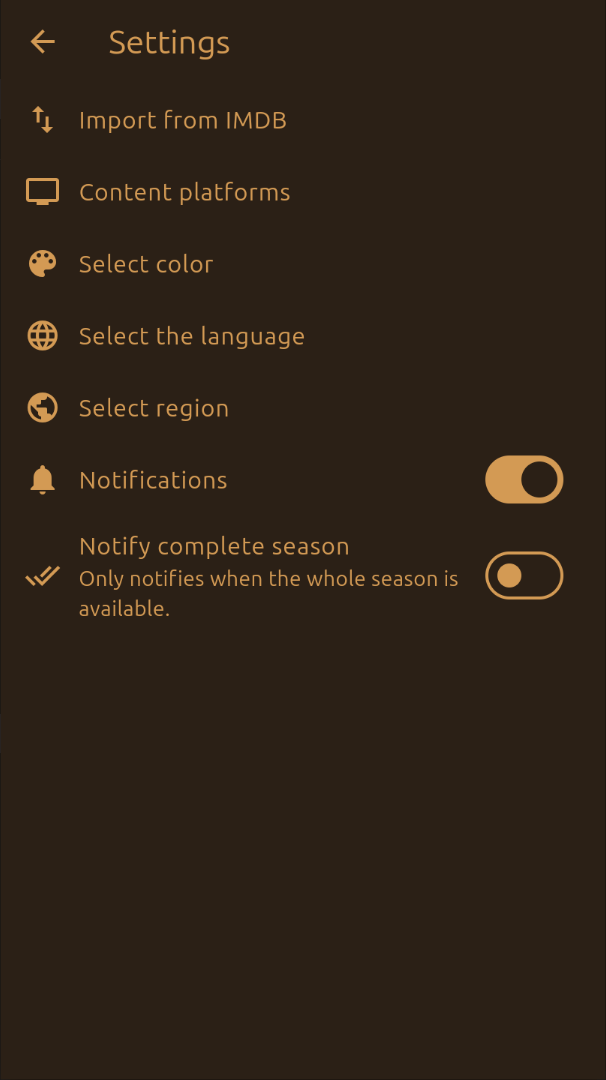
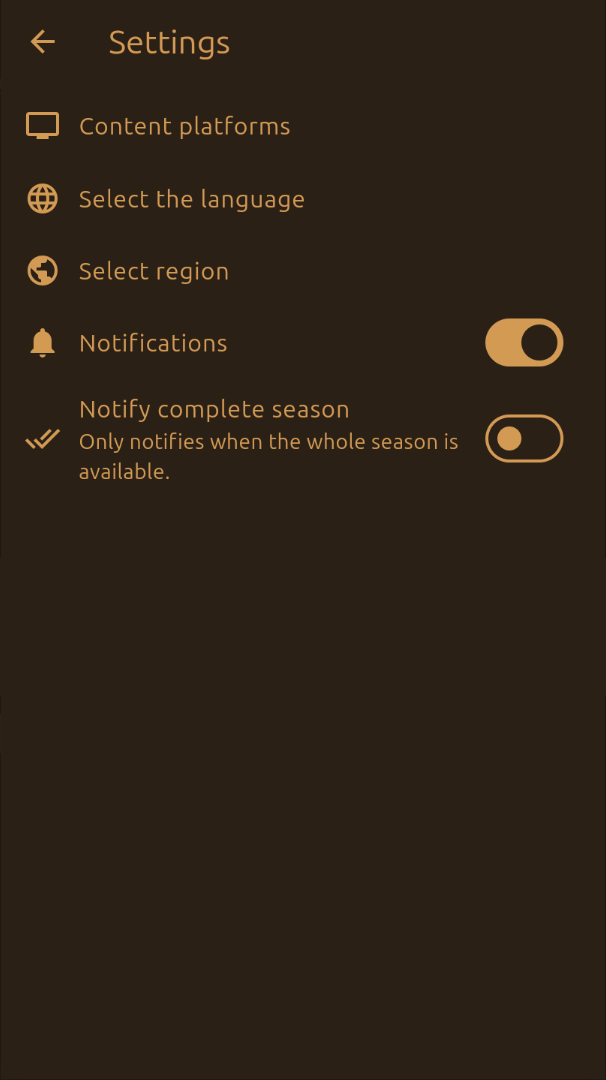
Merge pull request #493 from xcarol/481-prepare-for-production
481 prepare for production

Pull request: 481 prepare for production

diff --git a/lib/screens/settings.dart b/lib/screens/settings.dart
@@ -6,13 +6,11 @@ import 'package:moviescout/screens/providers.dart';
 import 'package:moviescout/services/language_service.dart';
 import 'package:moviescout/services/notification_service.dart';
 import 'package:moviescout/services/region_service.dart';
-import 'package:moviescout/services/theme_service.dart';
 import 'package:moviescout/services/tmdb_genre_service.dart';
 import 'package:moviescout/services/tmdb_rateslist_service.dart';
 import 'package:moviescout/services/tmdb_user_service.dart';
 import 'package:moviescout/services/tmdb_watchlist_service.dart';
 import 'package:moviescout/utils/deep_link_utils.dart';
-import 'package:moviescout/widgets/color_scheme_form.dart';
 import 'package:moviescout/widgets/language_form.dart';
 import 'package:moviescout/widgets/notification_permission_dialog.dart';
 import 'package:moviescout/widgets/region_form.dart';
@@ -34,7 +32,6 @@ class SettingsScreen extends StatelessWidget {
           if (isUserLoggedIn && defaultTargetPlatform == TargetPlatform.linux)
             _importImdbTile(context),
           if (isUserLoggedIn) _providersTile(context),
-          _colorSchemeTile(context),
           _languageTile(context),
           _regionTile(context),
           _notificationsTile(context),
@@ -99,30 +96,6 @@ class SettingsScreen extends StatelessWidget {
         Navigator.push(
           context,
           MaterialPageRoute(builder: (context) => const ProvidersScreen()),
-        );
-      },
-    );
-  }
-
-  Widget _colorSchemeTile(BuildContext context) {
-    final themeProvider = Provider.of<ThemeService>(context);
-
-    return ListTile(
-      leading: const Icon(Icons.color_lens),
-      title: Text(
-        AppLocalizations.of(context)!.schemeSelectTitle,
-      ),
-      onTap: () {
-        showDialog(
-          context: context,
-          builder: (context) {
-            return ColorSchemeForm(
-              currentScheme: themeProvider.currentScheme,
-              onSubmit: (ThemeSchemes schemeName) {
-                themeProvider.setColorScheme(schemeName);
-              },
-            );
-          },
         );
       },
     );